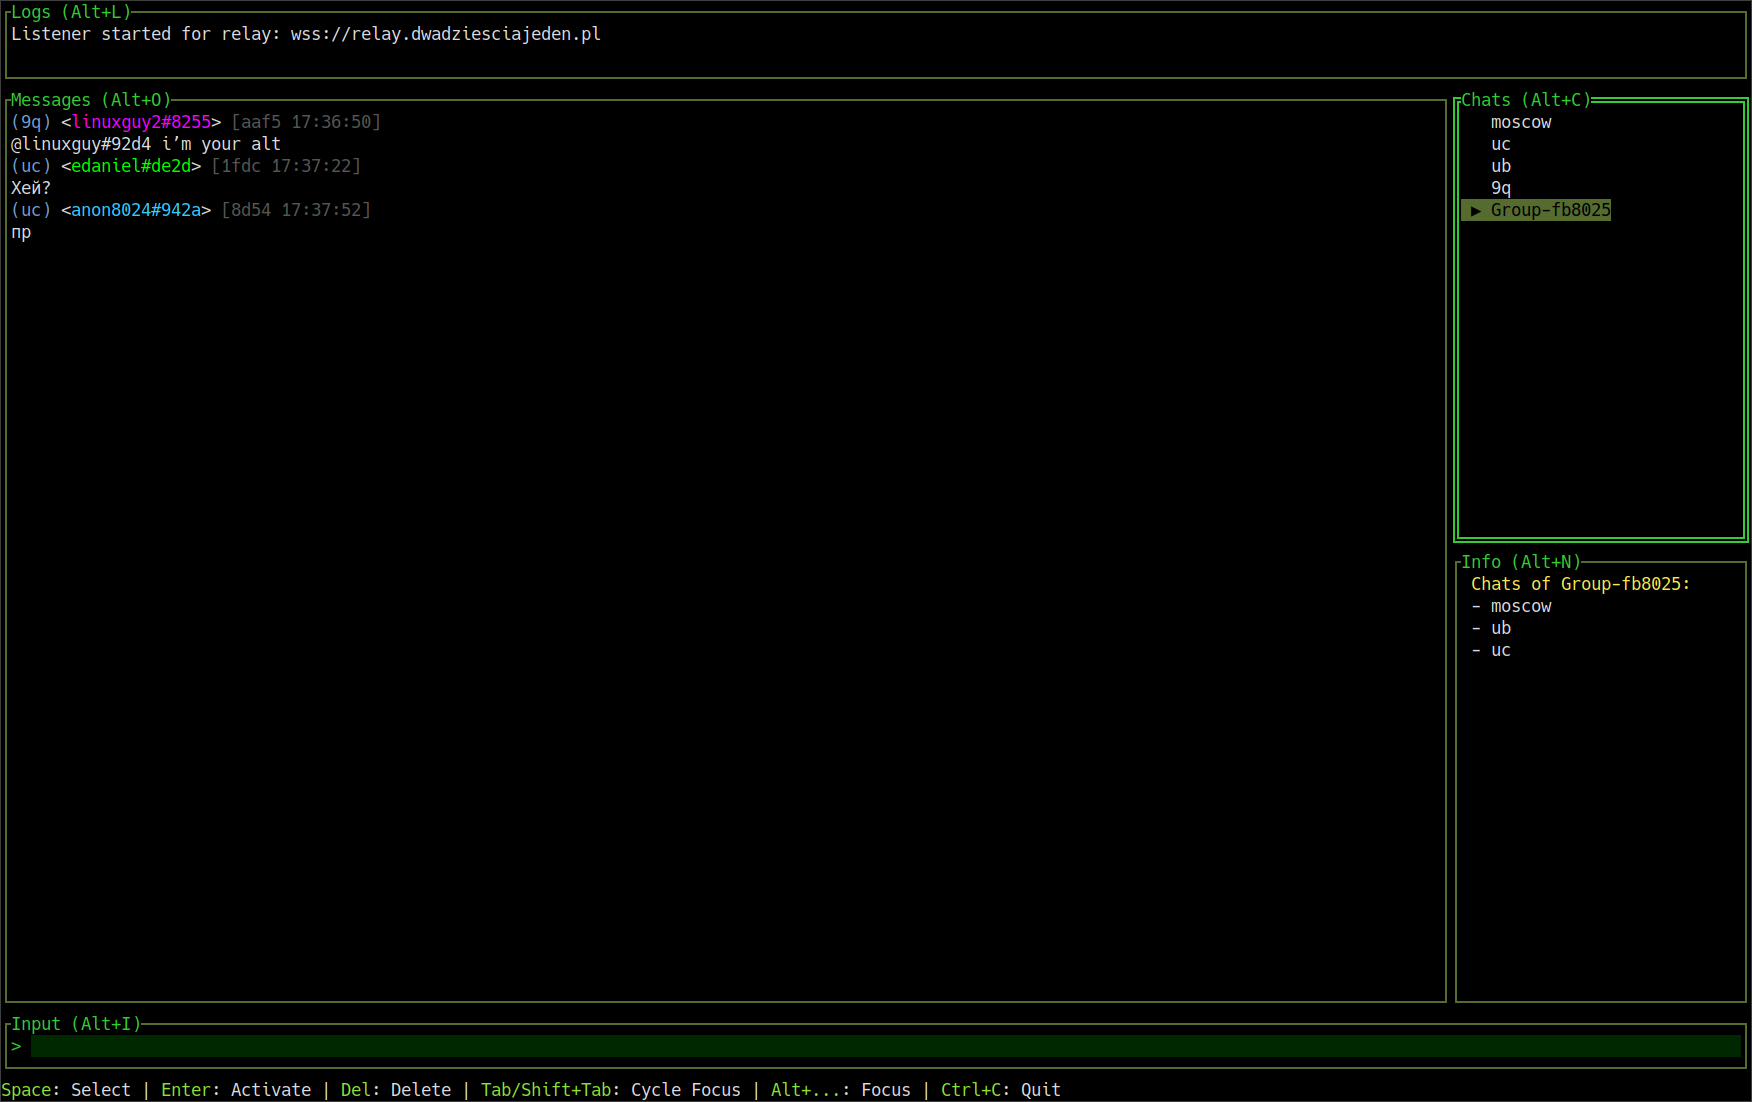
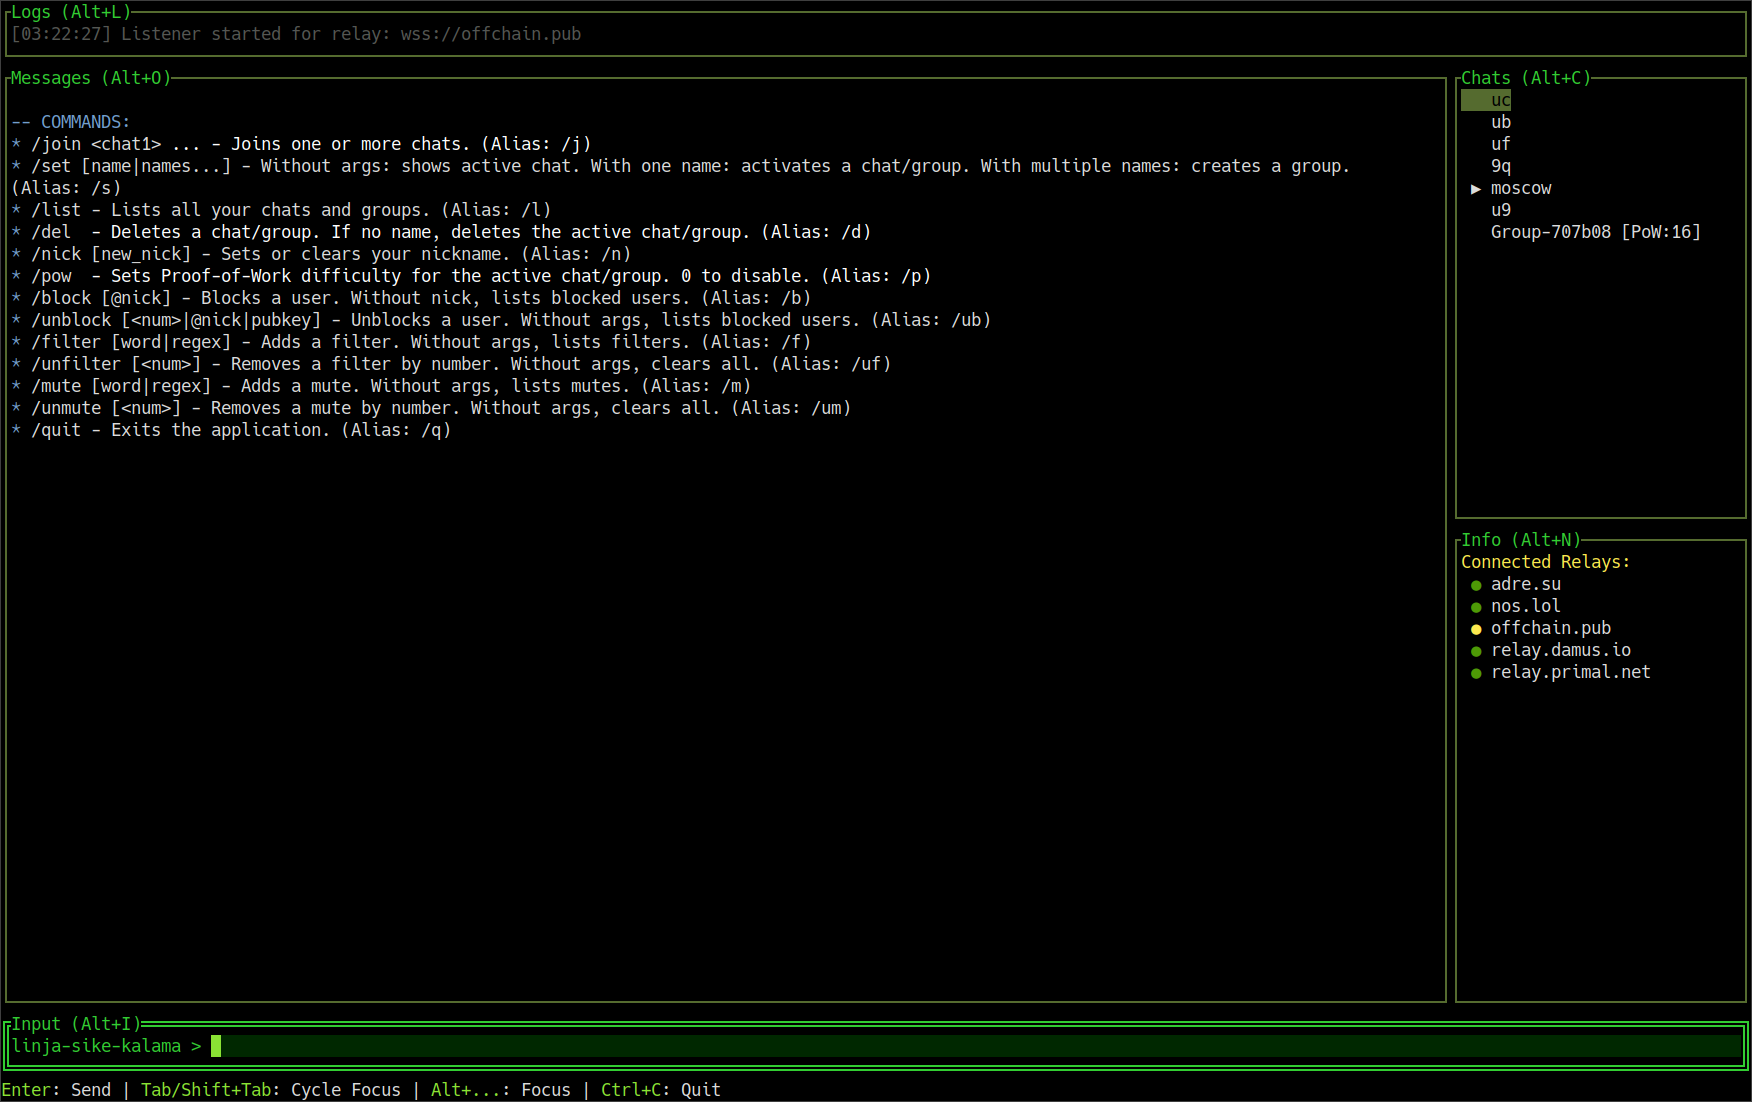
feat: Add support for /filter and /mute commands with regex/literal rules.

diff --git a/client/client.go b/client/client.go
@@ -8,6 +8,7 @@ import (
 	"fmt"
 	"log"
 	"math/bits"
+	"regexp"
 	"sort"
 	"strconv"
 	"strings"
@@ -83,6 +84,12 @@ type ManagedRelay struct {
 	mu           sync.Mutex
 }
 
+type compiledPattern struct {
+	raw     string
+	regex   *regexp.Regexp
+	literal string
+}
+
 type Client struct {
 	sk string
 	pk string
@@ -98,6 +105,9 @@ type Client struct {
 
 	actionsChan <-chan UserAction
 	eventsChan  chan<- DisplayEvent
+
+	filtersCompiled []compiledPattern
+	mutesCompiled   []compiledPattern
 
 	ctx    context.Context
 	cancel context.CancelFunc
@@ -210,6 +220,22 @@ func (c *Client) handleAction(action UserAction) {
 		c.unblockUser(action.Payload)
 	case "LIST_BLOCKED":
 		c.listBlockedUsers()
+	case "ADD_FILTER":
+		c.addFilter(action.Payload)
+	case "LIST_FILTERS":
+		c.listFilters()
+	case "REMOVE_FILTER":
+		c.removeFilter(action.Payload)
+	case "CLEAR_FILTERS":
+		c.clearFilters()
+	case "ADD_MUTE":
+		c.addMute(action.Payload)
+	case "LIST_MUTES":
+		c.listMutes()
+	case "REMOVE_MUTE":
+		c.removeMute(action.Payload)
+	case "CLEAR_MUTES":
+		c.clearMutes()
 	case "GET_HELP":
 		c.getHelp()
 	case "QUIT":
@@ -220,16 +246,52 @@ func (c *Client) handleAction(action UserAction) {
 // --- State Management ---
 
 func (c *Client) createGroup(payload string) {
-	members := strings.Split(payload, ",")
-	if len(members) < 2 {
+	existingChats := make(map[string]struct{})
+	for _, view := range c.config.Views {
+		if !view.IsGroup {
+			existingChats[view.Name] = struct{}{}
+		}
+	}
+
+	rawMembers := strings.Split(payload, ",")
+	validMembers := make([]string, 0)
+	notFoundChats := make([]string, 0)
+	seenMembers := make(map[string]struct{})
+
+	for _, member := range rawMembers {
+		trimmedMember := strings.TrimSpace(member)
+		if trimmedMember == "" {
+			continue
+		}
+
+		if _, seen := seenMembers[trimmedMember]; seen {
+			continue
+		}
+		seenMembers[trimmedMember] = struct{}{}
+
+		if _, exists := existingChats[trimmedMember]; exists {
+			validMembers = append(validMembers, trimmedMember)
+		} else {
+			notFoundChats = append(notFoundChats, trimmedMember)
+		}
+	}
+
+	if len(notFoundChats) > 0 {
+		c.eventsChan <- DisplayEvent{
+			Type:    "ERROR",
+			Content: fmt.Sprintf("Cannot create group. The following chats were not found: %s", strings.Join(notFoundChats, ", ")),
+		}
 		return
 	}
-	for i := range members {
-		members[i] = strings.TrimSpace(members[i])
-	}
-	sort.Strings(members)
 
-	hash := sha256.Sum256([]byte(strings.Join(members, "")))
+	if len(validMembers) < 2 {
+		c.eventsChan <- DisplayEvent{Type: "ERROR", Content: "A group requires at least two unique, existing chats."}
+		return
+	}
+
+	sort.Strings(validMembers)
+
+	hash := sha256.Sum256([]byte(strings.Join(validMembers, "")))
 	id := hex.EncodeToString(hash[:])[:6]
 	name := fmt.Sprintf("Group-%s", id)
 
@@ -240,7 +302,7 @@ func (c *Client) createGroup(payload string) {
 		}
 	}
 
-	newView := View{Name: name, IsGroup: true, Children: members}
+	newView := View{Name: name, IsGroup: true, Children: validMembers}
 	c.config.Views = append(c.config.Views, newView)
 	c.config.ActiveViewName = name
 	c.saveConfig()
@@ -248,6 +310,7 @@ func (c *Client) createGroup(payload string) {
 	c.sendStateUpdate()
 	c.updateAllSubscriptions()
 }
+
 func (c *Client) joinChats(payload string) {
 	chatNames := strings.Fields(payload)
 	if len(chatNames) == 0 {
@@ -484,6 +547,129 @@ func (c *Client) listBlockedUsers() {
 		builder.WriteString(fmt.Sprintf("[%d] - %s (%s...)\n", i+1, nick, user.PubKey[:8]))
 	}
 	c.eventsChan <- DisplayEvent{Type: "INFO", Content: builder.String()}
+}
+
+func compilePattern(p string) compiledPattern {
+	p = strings.TrimSpace(p)
+	if len(p) > 1 && strings.HasPrefix(p, "/") && strings.HasSuffix(p, "/") {
+		body := p[1 : len(p)-1]
+		if re, err := regexp.Compile(body); err == nil {
+			return compiledPattern{raw: p, regex: re}
+		}
+		return compiledPattern{raw: p, literal: body}
+	}
+	return compiledPattern{raw: p, literal: p}
+}
+
+func (c *Client) matchesAny(content string, patterns []compiledPattern) bool {
+	for _, pat := range patterns {
+		if pat.regex != nil {
+			if pat.regex.MatchString(content) {
+				return true
+			}
+		} else if pat.literal != "" {
+			if strings.Contains(content, pat.literal) {
+				return true
+			}
+		}
+	}
+	return false
+}
+
+func (c *Client) addFilter(p string) {
+	if p == "" {
+		c.listFilters()
+		return
+	}
+	c.config.Filters = append(c.config.Filters, p)
+	c.saveConfig()
+	c.rebuildRegexCaches()
+	c.eventsChan <- DisplayEvent{Type: "STATUS", Content: "Added filter: " + p}
+}
+
+func (c *Client) listFilters() {
+	if len(c.config.Filters) == 0 {
+		c.eventsChan <- DisplayEvent{Type: "INFO", Content: "No filters set."}
+		return
+	}
+	var b strings.Builder
+	b.WriteString("\nFilters:")
+	for i, f := range c.config.Filters {
+		b.WriteString(fmt.Sprintf("\n[%d] %s", i+1, f))
+	}
+	c.eventsChan <- DisplayEvent{Type: "INFO", Content: b.String()}
+}
+
+func (c *Client) removeFilter(p string) {
+	if p == "" {
+		c.clearFilters()
+		return
+	}
+	idx, err := strconv.Atoi(p)
+	if err != nil || idx < 1 || idx > len(c.config.Filters) {
+		c.eventsChan <- DisplayEvent{Type: "ERROR", Content: "Invalid filter number."}
+		return
+	}
+	removed := c.config.Filters[idx-1]
+	c.config.Filters = append(c.config.Filters[:idx-1], c.config.Filters[idx:]...)
+	c.saveConfig()
+	c.rebuildRegexCaches()
+	c.eventsChan <- DisplayEvent{Type: "STATUS", Content: "Removed filter: " + removed}
+}
+
+func (c *Client) clearFilters() {
+	c.config.Filters = []string{}
+	c.saveConfig()
+	c.rebuildRegexCaches()
+	c.eventsChan <- DisplayEvent{Type: "STATUS", Content: "Cleared all filters."}
+}
+
+func (c *Client) addMute(p string) {
+	if p == "" {
+		c.listMutes()
+		return
+	}
+	c.config.Mutes = append(c.config.Mutes, p)
+	c.saveConfig()
+	c.rebuildRegexCaches()
+	c.eventsChan <- DisplayEvent{Type: "STATUS", Content: "Muted: " + p}
+}
+
+func (c *Client) listMutes() {
+	if len(c.config.Mutes) == 0 {
+		c.eventsChan <- DisplayEvent{Type: "INFO", Content: "No mutes set."}
+		return
+	}
+	var b strings.Builder
+	b.WriteString("\nMutes:")
+	for i, m := range c.config.Mutes {
+		b.WriteString(fmt.Sprintf("\n[%d] %s", i+1, m))
+	}
+	c.eventsChan <- DisplayEvent{Type: "INFO", Content: b.String()}
+}
+
+func (c *Client) removeMute(p string) {
+	if p == "" {
+		c.clearMutes()
+		return
+	}
+	idx, err := strconv.Atoi(p)
+	if err != nil || idx < 1 || idx > len(c.config.Mutes) {
+		c.eventsChan <- DisplayEvent{Type: "ERROR", Content: "Invalid mute number."}
+		return
+	}
+	removed := c.config.Mutes[idx-1]
+	c.config.Mutes = append(c.config.Mutes[:idx-1], c.config.Mutes[idx:]...)
+	c.saveConfig()
+	c.rebuildRegexCaches()
+	c.eventsChan <- DisplayEvent{Type: "STATUS", Content: "Removed mute: " + removed}
+}
+
+func (c *Client) clearMutes() {
+	c.config.Mutes = []string{}
+	c.saveConfig()
+	c.rebuildRegexCaches()
+	c.eventsChan <- DisplayEvent{Type: "STATUS", Content: "Cleared all mutes."}
 }
 
 func (c *Client) setPoW(difficultyStr string) {
@@ -987,6 +1173,13 @@ func (c *Client) processEvent(ev *nostr.Event, relayURL string) {
 	content := truncateString(ev.Content, MaxMsgLen)
 	content = sanitizeString(content)
 
+	if c.matchesAny(content, c.mutesCompiled) {
+		return
+	}
+	if len(c.filtersCompiled) > 0 && !c.matchesAny(content, c.filtersCompiled) {
+		return
+	}
+
 	c.eventsChan <- DisplayEvent{
 		Type:      "NEW_MESSAGE",
 		Timestamp: timestamp,
@@ -1344,6 +1537,18 @@ func normalizeAndValidateChatName(name string) (string, error) {
 	return strings.Trim(builder.String(), "-"), nil
 }
 
+func (c *Client) rebuildRegexCaches() {
+	compileAll := func(src []string) []compiledPattern {
+		out := make([]compiledPattern, 0, len(src))
+		for _, raw := range src {
+			out = append(out, compilePattern(raw))
+		}
+		return out
+	}
+	c.filtersCompiled = compileAll(c.config.Filters)
+	c.mutesCompiled = compileAll(c.config.Mutes)
+}
+
 func sanitizeString(s string) string {
 	var b strings.Builder
 	b.Grow(len(s))
@@ -1409,11 +1614,15 @@ func (c *Client) getHelp() {
 		"[blue]*[-] /join <chat1> [chat2]... - Joins one or more chats. (Alias: /j)\n" +
 		"[blue]*[-] /set [name|names...] - Without args: shows active chat. With one name: activates a chat/group. With multiple names: creates a group. (Alias: /s)\n" +
 		"[blue]*[-] /list - Lists all your chats and groups. (Alias: /l)\n" +
+		"[blue]*[-] /del [name] - Deletes a chat/group. If no name, deletes the active chat/group. (Alias: /d)\n" +
 		"[blue]*[-] /nick [new_nick] - Sets or clears your nickname. (Alias: /n)\n" +
 		"[blue]*[-] /pow [number] - Sets Proof-of-Work difficulty for the active chat/group. 0 to disable. (Alias: /p)\n" +
-		"[blue]*[-] /del [name] - Deletes a chat/group. If no name, deletes the active chat/group. (Alias: /d)\n" +
 		"[blue]*[-] /block [@nick] - Blocks a user. Without nick, lists blocked users. (Alias: /b)\n" +
 		"[blue]*[-] /unblock [<num>|@nick|pubkey] - Unblocks a user. Without args, lists blocked users. (Alias: /ub)\n" +
+		"[blue]*[-] /filter [word|regex] - Adds a filter. Without args, lists filters. (Alias: /f)\n" +
+		"[blue]*[-] /unfilter [<num>] - Removes a filter by number. Without args, clears all. (Alias: /uf)\n" +
+		"[blue]*[-] /mute [word|regex] - Adds a mute. Without args, lists mutes. (Alias: /m)\n" +
+		"[blue]*[-] /unmute [<num>] - Removes a mute by number. Without args, clears all. (Alias: /um)\n" +
 		"[blue]*[-] /quit - Exits the application. (Alias: /q)"
 
 	c.eventsChan <- DisplayEvent{Type: "INFO", Content: helpText}

diff --git a/client/config.go b/client/config.go
@@ -30,11 +30,13 @@ type Config struct {
 	ActiveViewName string        `json:"active_view_name"`
 	BlockedUsers   []BlockedUser `json:"blocked_users,omitempty"`
 
+	Filters []string `json:"filters,omitempty"`
+	Mutes   []string `json:"mutes,omitempty"`
+
 	path string `json:"-"`
 }
 
 func LoadConfig() (*Config, error) {
-	// os.UserConfigDir() automatically returns the correct path for Windows, macOS, or Linux.
 	appConfigDir, err := GetAppConfigDir()
 	if err != nil {
 		return nil, err
@@ -46,7 +48,6 @@ func LoadConfig() (*Config, error) {
 
 	file, err := os.Open(configPath)
 	if err != nil {
-		// If the file doesn't exist, create a default one.
 		if os.IsNotExist(err) {
 			return createDefaultConfig(configPath)
 		}
@@ -63,7 +64,6 @@ func LoadConfig() (*Config, error) {
 
 // Save writes the current configuration back to the file.
 func (c *Config) Save() error {
-	// Ensure the parent directory exists before writing the file.
 	if err := os.MkdirAll(filepath.Dir(c.path), 0755); err != nil {
 		return fmt.Errorf("could not create config directory: %w", err)
 	}
@@ -75,7 +75,6 @@ func (c *Config) Save() error {
 	defer file.Close()
 
 	encoder := json.NewEncoder(file)
-	// Use indentation for a human-readable JSON file.
 	encoder.SetIndent("", "  ")
 	if err := encoder.Encode(c); err != nil {
 		return fmt.Errorf("could not encode config file: %w", err)
@@ -88,14 +87,14 @@ func (c *Config) Save() error {
 func createDefaultConfig(path string) (*Config, error) {
 	sk := nostr.GeneratePrivateKey()
 	conf := &Config{
-		PrivateKey: sk,
-		// The user starts with no channels or groups.
+		PrivateKey:     sk,
 		Views:          []View{},
 		ActiveViewName: "",
 		BlockedUsers:   []BlockedUser{},
+		Filters:        []string{},
+		Mutes:          []string{},
 		path:           path,
 	}
-	// Save the newly created config to disk.
 	return conf, conf.Save()
 }
 

diff --git a/tui/tui.go b/tui/tui.go
@@ -289,6 +289,30 @@ func (t *TUI) setupHandlers() {
 				} else {
 					t.actionsChan <- client.UserAction{Type: "UNBLOCK_USER", Payload: payload}
 				}
+			case "/filter", "/f":
+				if payload == "" {
+					t.actionsChan <- client.UserAction{Type: "LIST_FILTERS"}
+				} else {
+					t.actionsChan <- client.UserAction{Type: "ADD_FILTER", Payload: payload}
+				}
+			case "/unfilter", "/uf":
+				if payload == "" {
+					t.actionsChan <- client.UserAction{Type: "CLEAR_FILTERS"}
+				} else {
+					t.actionsChan <- client.UserAction{Type: "REMOVE_FILTER", Payload: payload}
+				}
+			case "/mute", "/m":
+				if payload == "" {
+					t.actionsChan <- client.UserAction{Type: "LIST_MUTES"}
+				} else {
+					t.actionsChan <- client.UserAction{Type: "ADD_MUTE", Payload: payload}
+				}
+			case "/unmute", "/um":
+				if payload == "" {
+					t.actionsChan <- client.UserAction{Type: "CLEAR_MUTES"}
+				} else {
+					t.actionsChan <- client.UserAction{Type: "REMOVE_MUTE", Payload: payload}
+				}
 			case "/help", "/h":
 				t.actionsChan <- client.UserAction{Type: "GET_HELP"}
 			}
